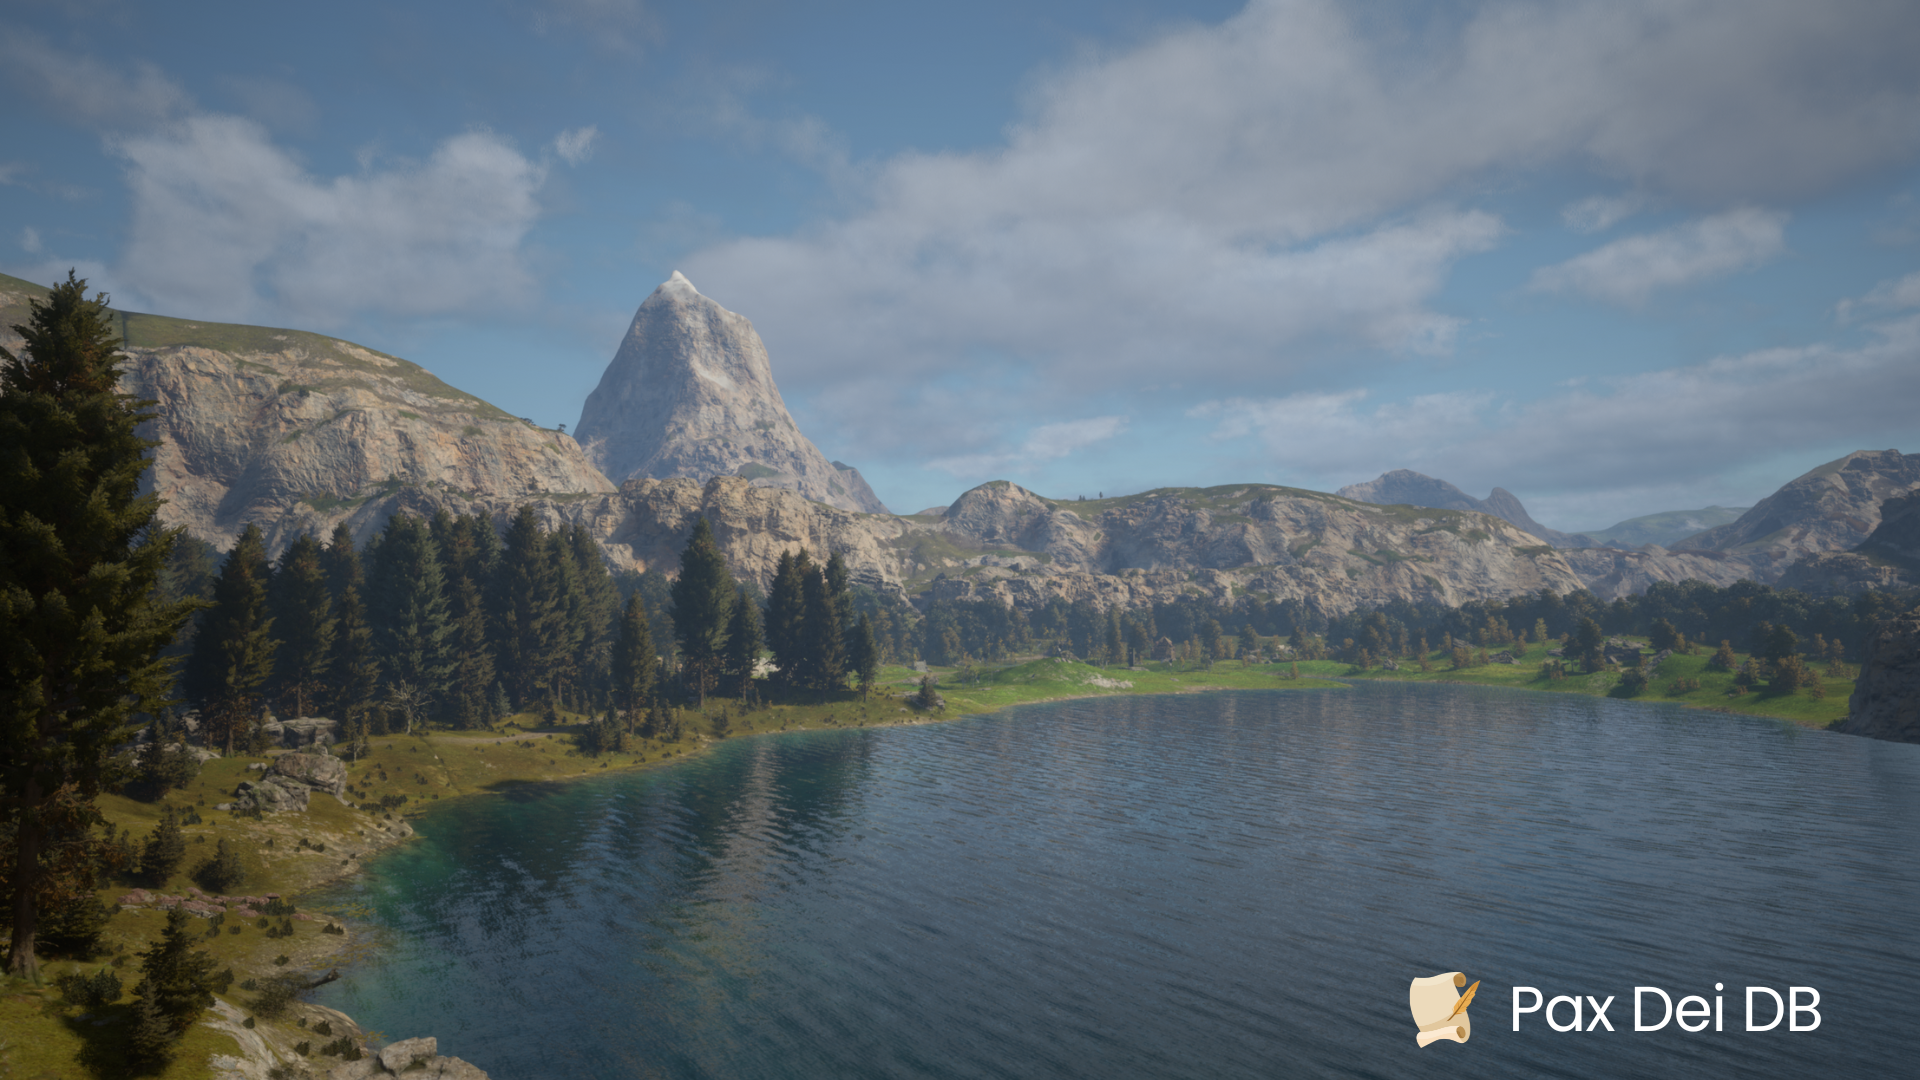
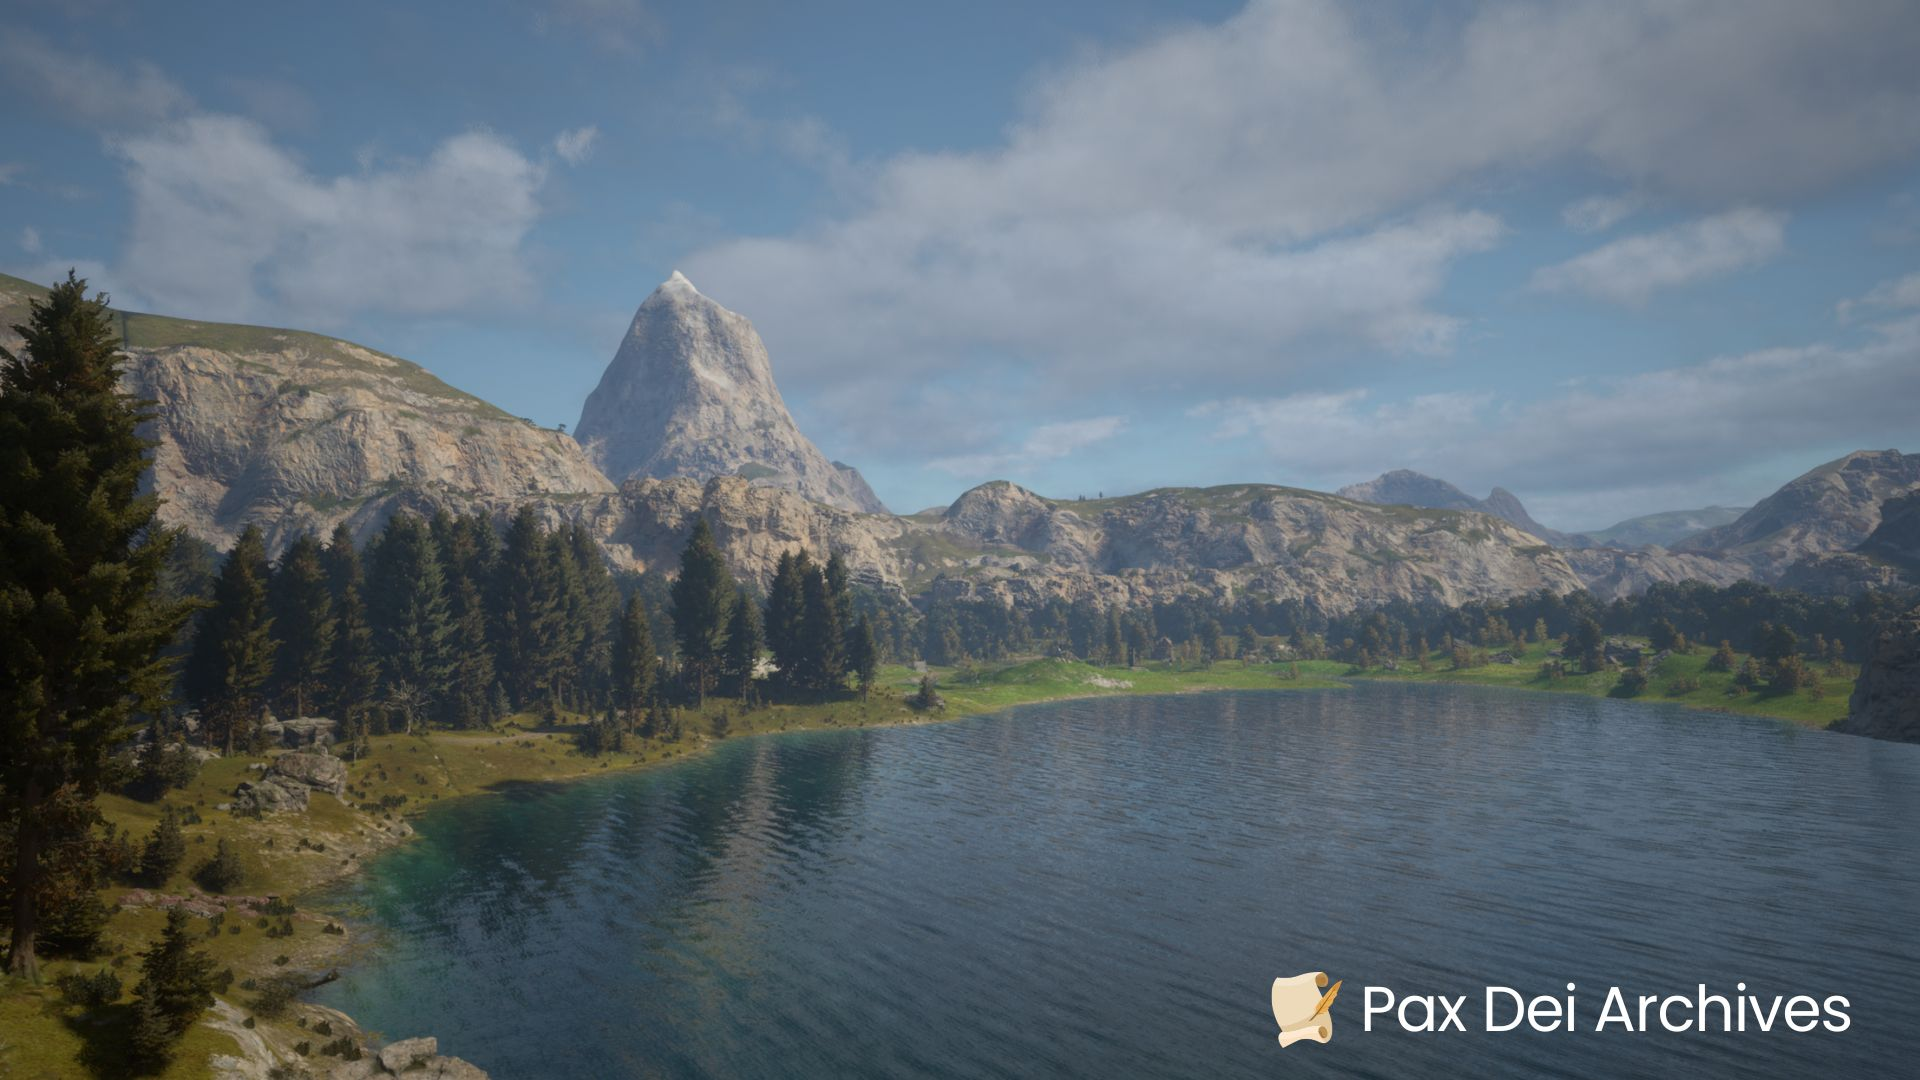
file updates

Changed region(s): [[0.6562, 0.8861, 0.9688, 0.9778]]

diff --git a/frontend/www/index.html b/frontend/www/index.html
@@ -2,7 +2,7 @@
 <html dir="ltr" lang="en">
 <head>
 	<meta charset="UTF-8">
-	<title>Pax Dei DB</title>
+	<title>Pax Dei Archives</title>
 	<link href="assets/book.png" rel="icon" type="image/png">
 	<link href="css/styles.css" rel="stylesheet">
 	<script src="https://cdn.jsdelivr.net/npm/@supabase/supabase-js"></script>
@@ -19,7 +19,7 @@
 
 	<div class="top-bar">
 		<div class="logo-details">
-			<a href="/"><img alt="Book Icon" class="book-icon" src="assets/book.png"></a> <span class="logo_name">Pax Dei DB</span>
+			<a href="/"><img alt="Book Icon" class="book-icon" src="assets/book.png"></a> <span class="logo_name">Pax Dei Archives</span>
 		</div>
 		<input id="quickFilterInput" placeholder="Search this list..." type="text">
 		<div class="column-wrapper">
@@ -92,8 +92,8 @@
 							<li style="list-style: none; display: inline">
 								<hr class="solid">
 							</li>
-							<li class="sub-menu-item" data-table-id="crafting-items-table"><img alt="Crafting" class="list-icon" src="assets/anvil.png" style="width: 35px; margin-right: 10px; margin-left: 5px">Crafting Items</li>
-							<li class="sub-menu-item" data-table-id="building-items-table"><img alt="Building" class="list-icon" src="assets/crafting.png" style="width: 35px; margin-right: 10px; margin-left: 5px">Building Items</li>
+							<!-- <li class="sub-menu-item" data-table-id="crafting-items-table"><img alt="Crafting" class="list-icon" src="assets/anvil.png" style="width: 35px; margin-right: 10px; margin-left: 5px">Crafting Items</li>
+							<li class="sub-menu-item" data-table-id="building-items-table"><img alt="Building" class="list-icon" src="assets/crafting.png" style="width: 35px; margin-right: 10px; margin-left: 5px">Building Items</li> -->
 							<li class="sub-menu-item" data-table-id="all_items-table"><img alt="IDs" class="list-icon" src="assets/special_icon.png" style="width: 35px; margin-right: 10px; margin-left: 5px">All Items</li>
 						</ul>
 					</li><!-- Mobs -->
